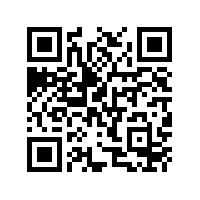
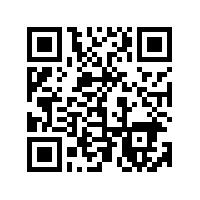
Updated maps qr generation.

Changed region(s): [[0.12, 0.12, 0.87, 0.87]]

diff --git a/isa-back/src/main/java/com/ivan/isaback/service/impl/AppointmentServiceImpl.java b/isa-back/src/main/java/com/ivan/isaback/service/impl/AppointmentServiceImpl.java
@@ -161,7 +161,7 @@ public class AppointmentServiceImpl implements AppointmentService {
 				emailDetails.setRecipient(saved.getApplicationUser().getEmail());
 				emailDetails.setSubject("ISA Appointment mail");
 
-				emailService.sendQrCode(emailDetails, a.getCenter().getAddress());
+				emailService.sendQrCode(emailDetails, "https://www.google.com/maps/place/" + a.getCenter().getAddress());
 
 				return new AppointmentItemResponseDTO(appointmentDTO.getId(),
 						"Appointment " + appointmentDTO.getId() + " reserved.");
